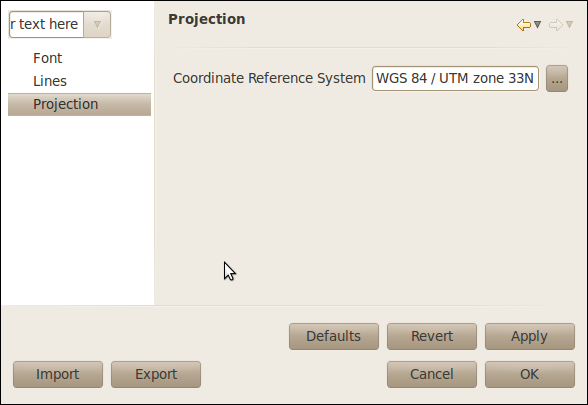
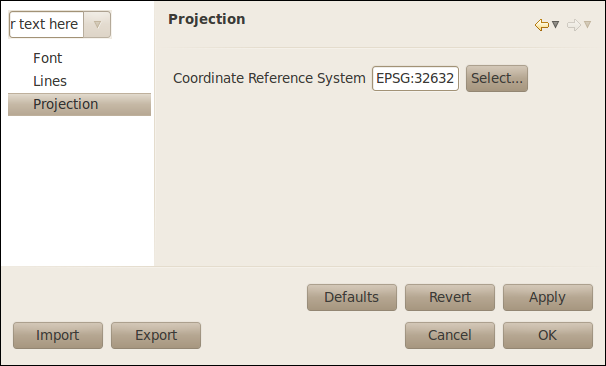
Added Font and Color Dialog references. Updated Graticule Reference.

diff --git a/docs/user/en/Graticule Decoration.rst b/docs/user/en/Graticule Decoration.rst
@@ -1,20 +1,35 @@
 Graticule Decoration
 ####################
 
-The graticule decoration displays a grapgraphic coordinate grid aligned with current map CRS.
+Graticule decorations displays a grid aligned with longitude and latitude lines defined by
+a `geographic coordinate system <http://en.wikipedia.org/wiki/Geographic_coordinate_system>`_.
 
 .. figure:: images/graticule_decoration/graticule.png
    :align: center
    :alt: 
 
-Style
------
+Styles
+------
 
-Graticule font can be styled.
+Graticule font, lines and projection (geographic coordinate system) are configurable. 
+You can change them by opening the `Style Editor dialog` and select the style you want
+to change.
+
+Font
+----
+
+Graticule font can be styled. 
 
 .. figure:: images/graticule_decoration/style-font.png
    :align: center
    :alt: 
+   
+**"Select..." button** 
+
+Opens :doc:`Font Selector dialog`.
+
+Lines
+-----
 
 Graticule lines can be styled.
 
@@ -22,23 +37,28 @@ Graticule lines can be styled.
    :align: center
    :alt: 
    
-Show different coordinate system grids
---------------------------------------
+**Font and Line Color buttons** 
 
-If you want to show different coordinate grids on top of each other, just add two graticules and change 
-the projections from the *projection* paged in the style dialog.
+Opens :doc:`Color Selector dialog`.
 
-.. figure:: images/graticule_decoration/style-crs.png
-   :align: center
-   :alt: 
+**Opacity scale** 
 
-which should produce something like this
+Set opacity of font and line colors
+
+**Line Style** 
+
+List of grid line styles
+
+**Line Width** 
+
+Grid line width spinner.
+
+**Show labels** 
+
+Check to show labels
+
    
-.. figure:: images/graticule_decoration/multiple.png
-   :align: center
-   :alt: 
-
-
-**Related reference**
+Related reference
+-----------------
 
 :doc:`Style Editor dialog`

diff --git a/docs/user/en/Color Selector dialog.rst b/docs/user/en/Color Selector dialog.rst
@@ -1,0 +1,53 @@
+Color Selector dialog
+#####################
+
+The color selector dialog is used to select or change a color.
+
+.. figure:: images/color_selector_dialog/dialog.png
+   :align: center
+   :alt: 
+
+Color wheel
+-----------
+
+Select color by clicking inside triangle or directly on the rim outside it. You 
+change the colors inside the triangle by clicking on the rim. 
+
+Hue, Saturation, Value (`HSL <http://en.wikipedia.org/wiki/HSL_and_HSV>`_)
+--------------------------------------------------------------------------------
+
+Enter `cylindrical coordinate <http://en.wikipedia.org/wiki/Cylindrical_coordinate_system>`_ 
+representation of points in the `RGB color model <http://en.wikipedia.org/wiki/RGB_color_model>`_. 
+
+Red, Green, Blue (`RGB <http://en.wikipedia.org/wiki/RGB_color_model>`_)
+--------------------------------------------------------------------------------
+
+Enter red, green and blue points in the `RGB color model <http://en.wikipedia.org/wiki/RGB_color_model>`_
+directly.
+
+Color name
+----------
+
+Enter hexa-desimal representation of the points in the 
+`RGB color model <http://en.wikipedia.org/wiki/RGB_color_model>`_. 
+
+Palette
+----------
+
+Select commonly used colors directly by clicking on the palette. 
+
+OK button
+---------
+
+Closes the dialog and returns selected color.
+
+Cancel button
+-------------
+
+Closes the dialog. Color is not changed.
+
+Related reference
+-----------------
+
+* :doc:`Legend Decoration`
+* :doc:`Graticule Decoration`

diff --git a/docs/user/en/Font Selector dialog.rst b/docs/user/en/Font Selector dialog.rst
@@ -1,0 +1,39 @@
+Font Selector dialog
+####################
+
+The font selector dialog is used to select or change font family, style and size.
+
+.. figure:: images/font_selector_dialog/dialog.png
+   :align: center
+   :alt: 
+
+Family
+------
+
+List of font families available for selection. Only single selection is allowed.
+
+Style
+-----
+
+List of font styles in selected family. Only single selection is allowed.
+
+Size
+----
+
+Font size can be entered manually or selected from list of predefined sizes.
+
+OK button
+---------
+
+Closes the dialog and returns selected font.
+
+Cancel button
+-------------
+
+Closes the dialog. Font is not changed.
+
+Related reference
+-------------------
+
+* :doc:`Legend Decoration`
+* :doc:`Graticule Decoration`

diff --git a/docs/user/en/Wizards and Dialogs.rst b/docs/user/en/Wizards and Dialogs.rst
@@ -14,4 +14,6 @@ Wizards and Dialogs
    Send Log dialog
    Style Editor dialog
    Transform dialog
+   Font Selector dialog
+   Color Selector dialog   
 
